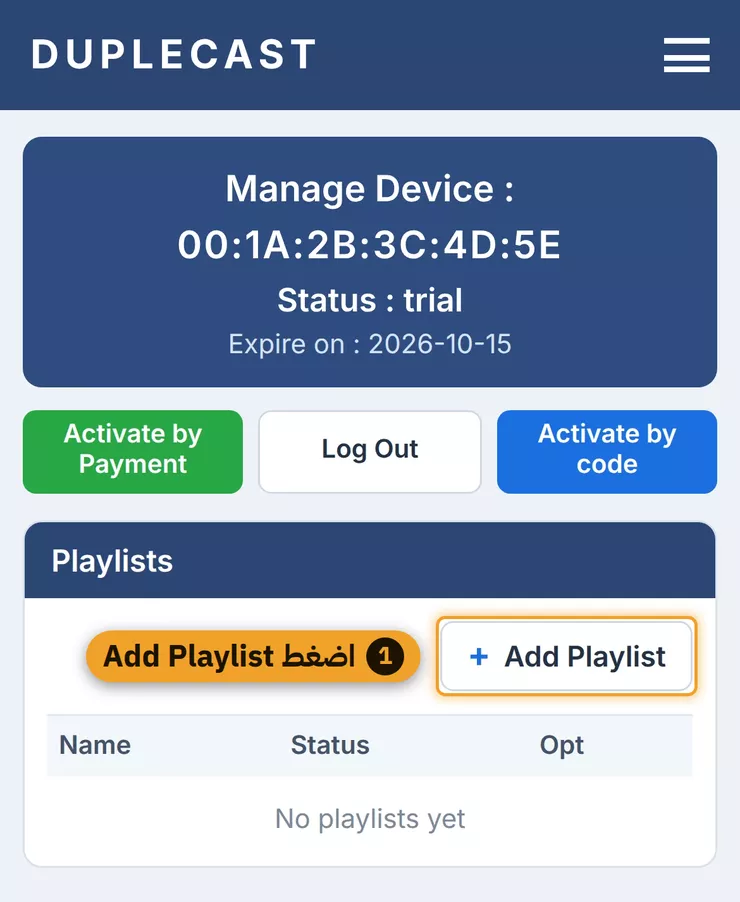
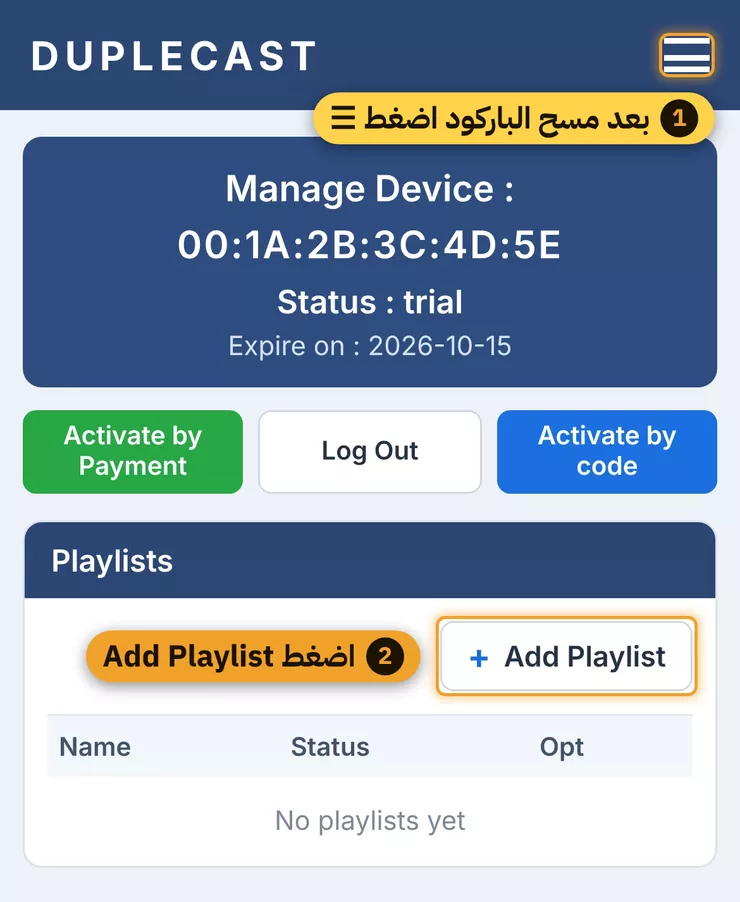
صور شرح Duplecast: الهوست http://mrha.ink والبورت 80، وإطار على ☰ بعد مسح الباركود
- tv_duplecast.html: الهوست http://mrha.ink والبورت 80، و data-k="menu" على الشرطات الثلاث.
- shots_duplecast.js: صورة Manage Device فيها ① اضغط ☰ ثم ② Add Playlist، وبطاقتا النموذج
  «كما هو بلا / في آخره» و«البورت 80».
- أُعيد رسم dc_manage و dc_form وصورتا الدليل منهما فقط.

Claude-Session: https://claude.ai/code/session_01MxVQo6KpPW47G7d5MvECgN

diff --git a/tools/video/shots_duplecast.js b/tools/video/shots_duplecast.js
@@ -7,7 +7,7 @@ const { renderShots } = require('./shots_lib');
 
 // مواضع الأزرار (بكسل الصورة) — كما يطبعها capture_duplecast.js، ومثلها في B بصفحة duplecast.html
 const TV = { qr: [1230, 200, 520, 520], mac: [80, 836, 543, 154], refresh: [1596, 70, 104, 104], live: [80, 320, 560, 300] };
-const WEB = { add: [697, 981, 398, 111], code: [786, 648, 348, 132], tab: [755, 375, 340, 120],
+const WEB = { menu: [1050, 60, 72, 54], add: [697, 981, 398, 111], code: [786, 648, 348, 132], tab: [755, 375, 340, 120],
   name: [75, 885, 1020, 189], host: [75, 1110, 1020, 189], port: [75, 1335, 1020, 189], user: [75, 1560, 1020, 189],
   pass: [75, 1785, 1020, 189], save: [75, 2184, 1020, 138], row: [75, 1061, 1020, 104], ok: [75, 1200, 1020, 123],
   field: [87, 1010, 996, 189], go: [87, 1241, 996, 138], st: [66, 447, 1038, 123] };
@@ -20,10 +20,11 @@ const SPECS = [
     marks: [{ r: TV.qr, n: 1, t: 'امسح الباركود بكاميرا جوالك', at: 'top' },
             { r: TV.mac, n: 2, t: 'أو رقم جهازك في الموقع', at: 'top' }] },
   { out: 'webos-duplecast-manage.webp', src: 'dc_manage.webp', w: 740, fs: 48,
-    marks: [{ r: WEB.add, n: 1, t: 'اضغط Add Playlist', at: 'left' }] },
+    marks: [{ r: WEB.menu, n: 1, t: 'بعد مسح الباركود اضغط ☰', at: 'below', hot: 1 },
+            { r: WEB.add, n: 2, t: 'اضغط Add Playlist', at: 'left' }] },
   { out: 'webos-duplecast-form.webp', src: 'dc_form.webp', w: 740, fs: 46,
     marks: [{ r: WEB.tab, n: 1, t: 'تبويب Xtream Info', at: 'below' }, { r: WEB.name, n: 2, t: 'أي اسم', at: 'in' },
-            { r: WEB.host, n: 3, t: 'الهوست بلا البورت', at: 'in', hot: 1 }, { r: WEB.port, n: 4, t: 'رقم البورت وحده', at: 'in', hot: 1 },
+            { r: WEB.host, n: 3, t: 'كما هو بلا / في آخره', at: 'in', hot: 1 }, { r: WEB.port, n: 4, t: 'البورت 80', at: 'in', hot: 1 },
             { r: WEB.user, n: 5, t: 'اسم المستخدم', at: 'in' }, { r: WEB.pass, n: 6, t: 'كلمة المرور', at: 'in' },
             { r: WEB.save, n: 7, t: 'اضغط Save', at: 'in' }] },
   { out: 'webos-duplecast-saved.webp', src: 'dc_saved.webp', crop: [0, 630, 1170, 786], w: 740, fs: 46,

diff --git a/tools/video/tv_duplecast.html b/tools/video/tv_duplecast.html
@@ -165,7 +165,7 @@ table.pl .d{border:1px solid #cfd8e3;color:#6b7a8d;border-radius:5px;padding:4px
 </div>
 
 <div id="manage" class="scr web">
-  <div class="hdr"><b>DUPLECAST</b><i></i></div>
+  <div class="hdr"><b>DUPLECAST</b><i data-k="menu"></i></div>
   <div class="dev" data-k="dev"><div class="t">Manage Device :</div><div class="m">00:1A:2B:3C:4D:5E</div><div class="st">Status : trial</div><div class="ex">Expire on : 2026-10-15</div></div>
   <div class="acts"><span class="pay" data-k="pay">Activate by Payment</span><span class="out">Log Out</span><span class="code" data-k="code">Activate by code</span></div>
   <div class="card"><div class="ch">Playlists</div><div class="cb">
@@ -182,8 +182,8 @@ table.pl .d{border:1px solid #cfd8e3;color:#6b7a8d;border-radius:5px;padding:4px
     <div class="tabs"><span>1-Stream</span><span>Xui.One</span><span>Stalker</span></div>
     <div data-k="mac"><div class="fl">Mac</div><div class="in ro">00:1A:2B:3C:4D:5E</div></div>
     <div data-k="name"><div class="fl">Playlist name</div><div class="in">ssouq</div></div>
-    <div data-k="host"><div class="fl">Host</div><div class="in">http://host.example.com</div></div>
-    <div data-k="port"><div class="fl">Port</div><div class="in">8080</div></div>
+    <div data-k="host"><div class="fl">Host</div><div class="in">http://mrha.ink</div></div>
+    <div data-k="port"><div class="fl">Port</div><div class="in">80</div></div>
     <div data-k="user"><div class="fl">Username</div><div class="in ar">اسم المستخدم</div></div>
     <div data-k="pass"><div class="fl">Password</div><div class="in ar">كلمة المرور</div></div>
     <div class="chk" data-k="protect"><i></i>Protect this playlist</div>
